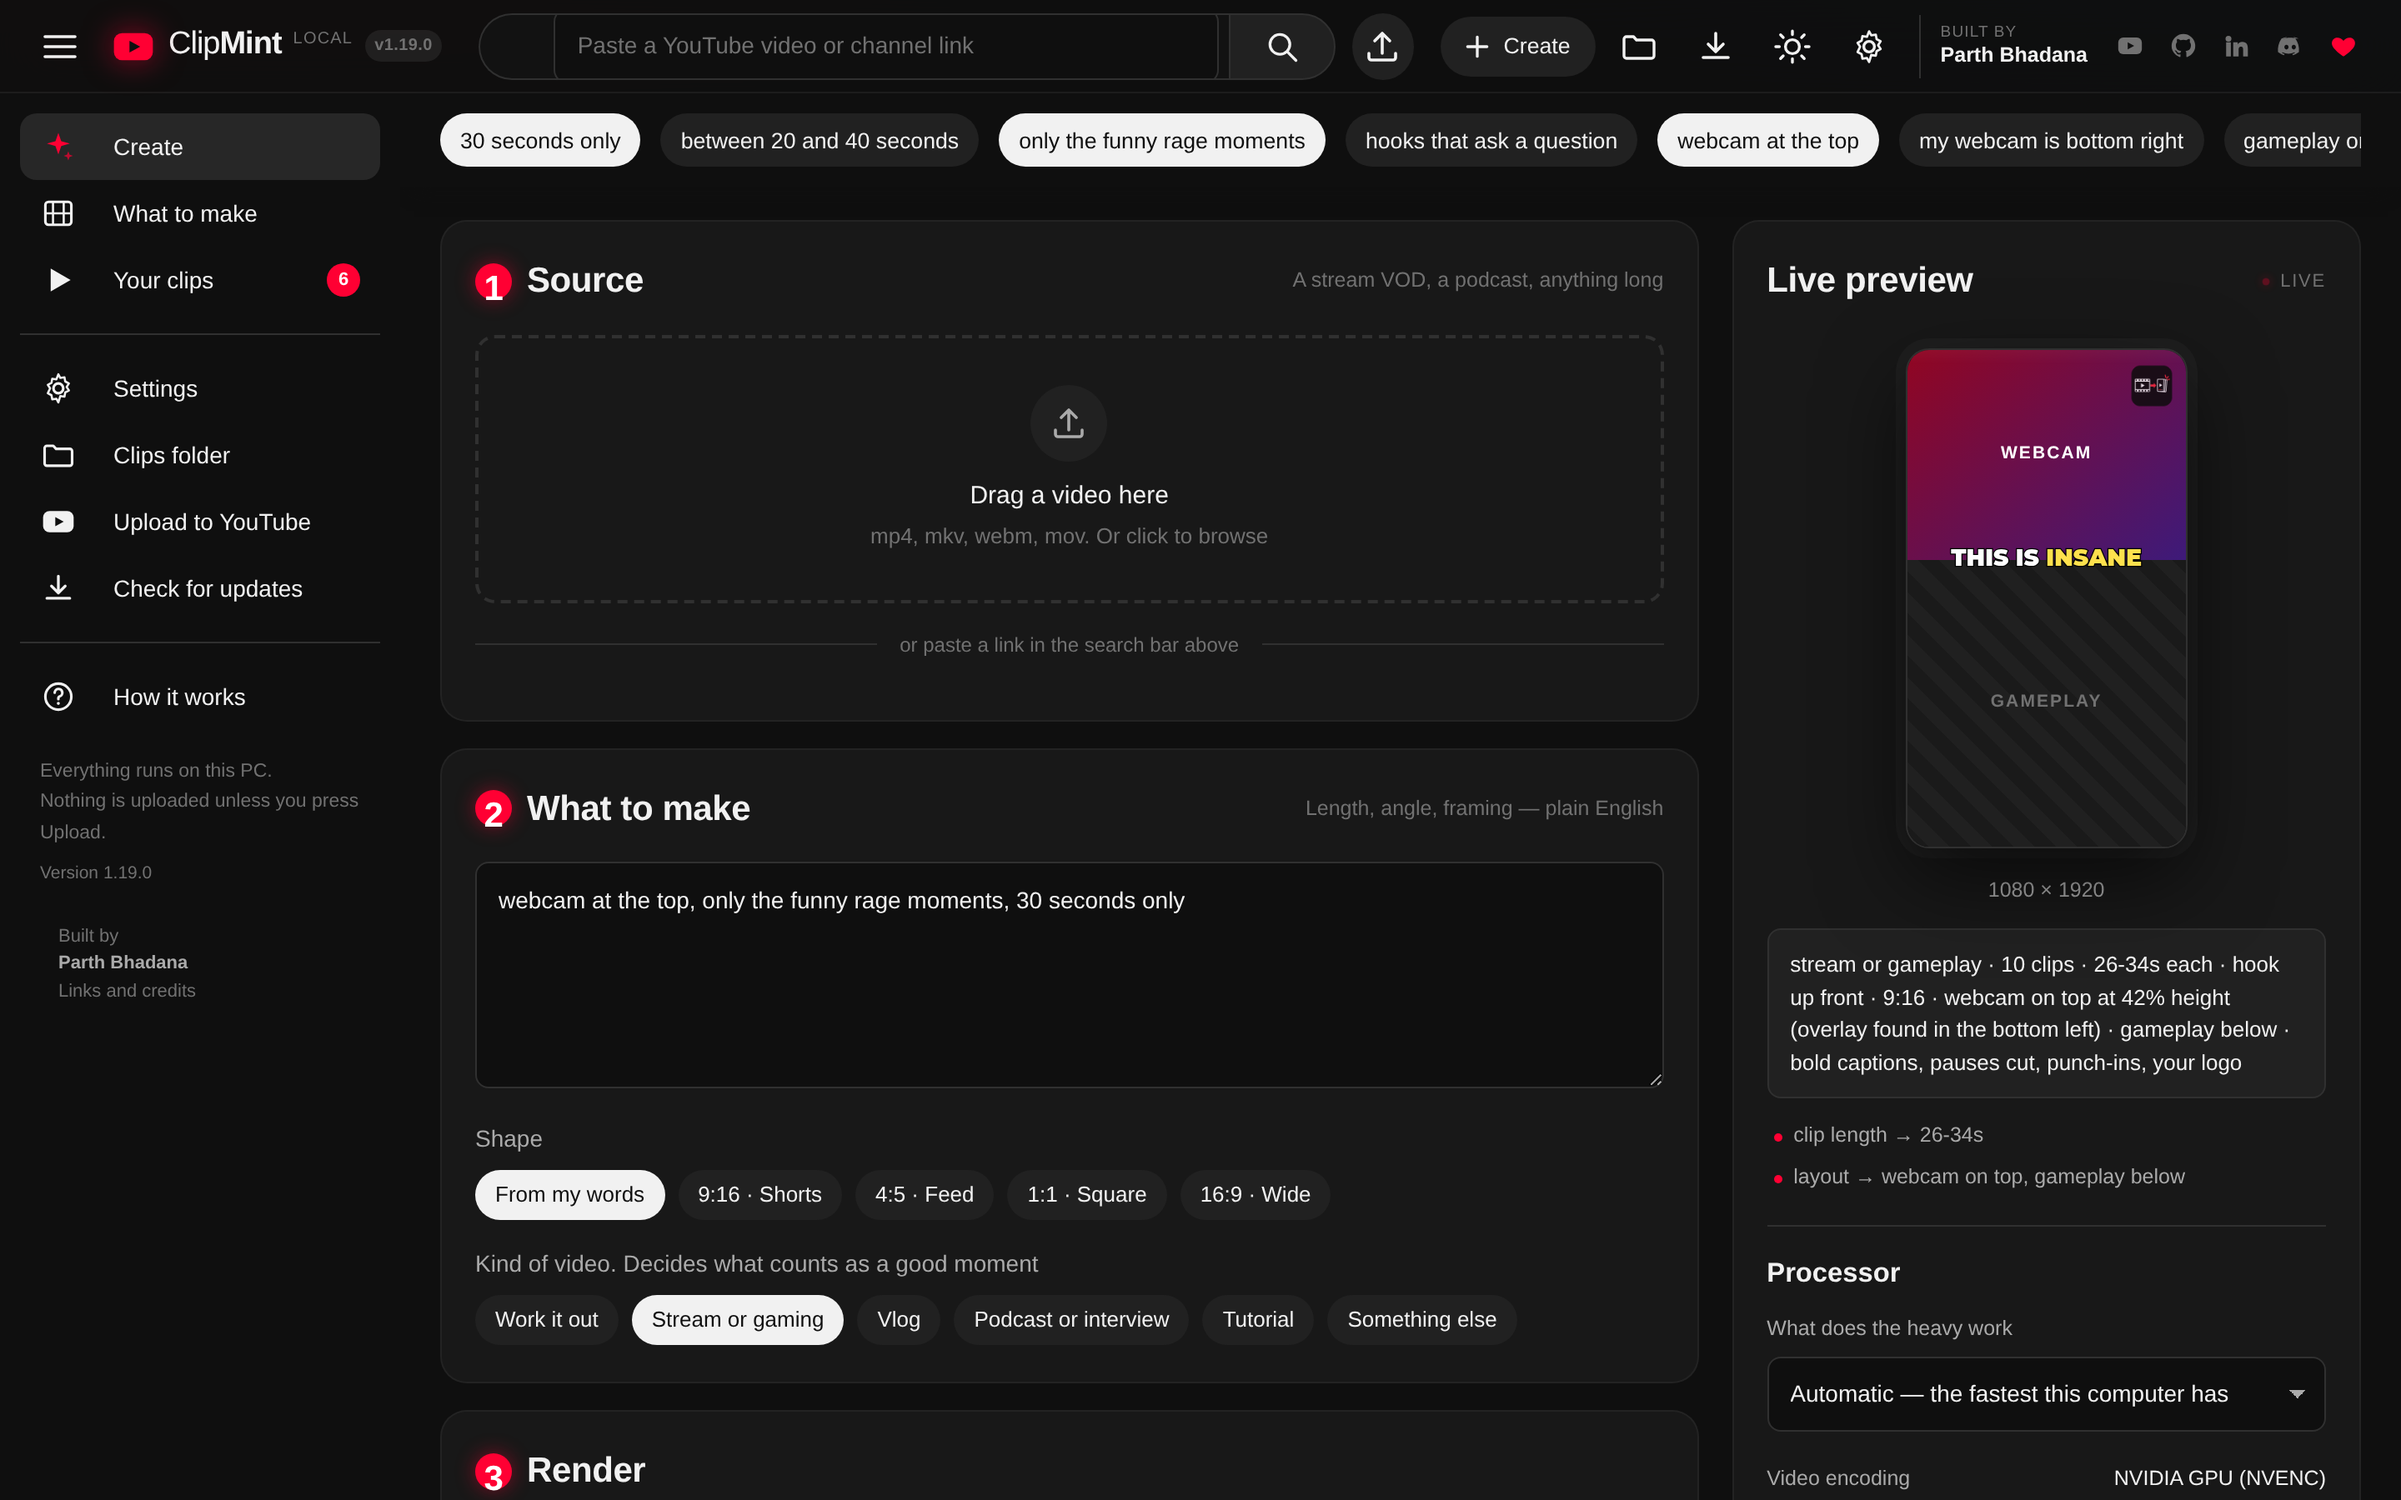
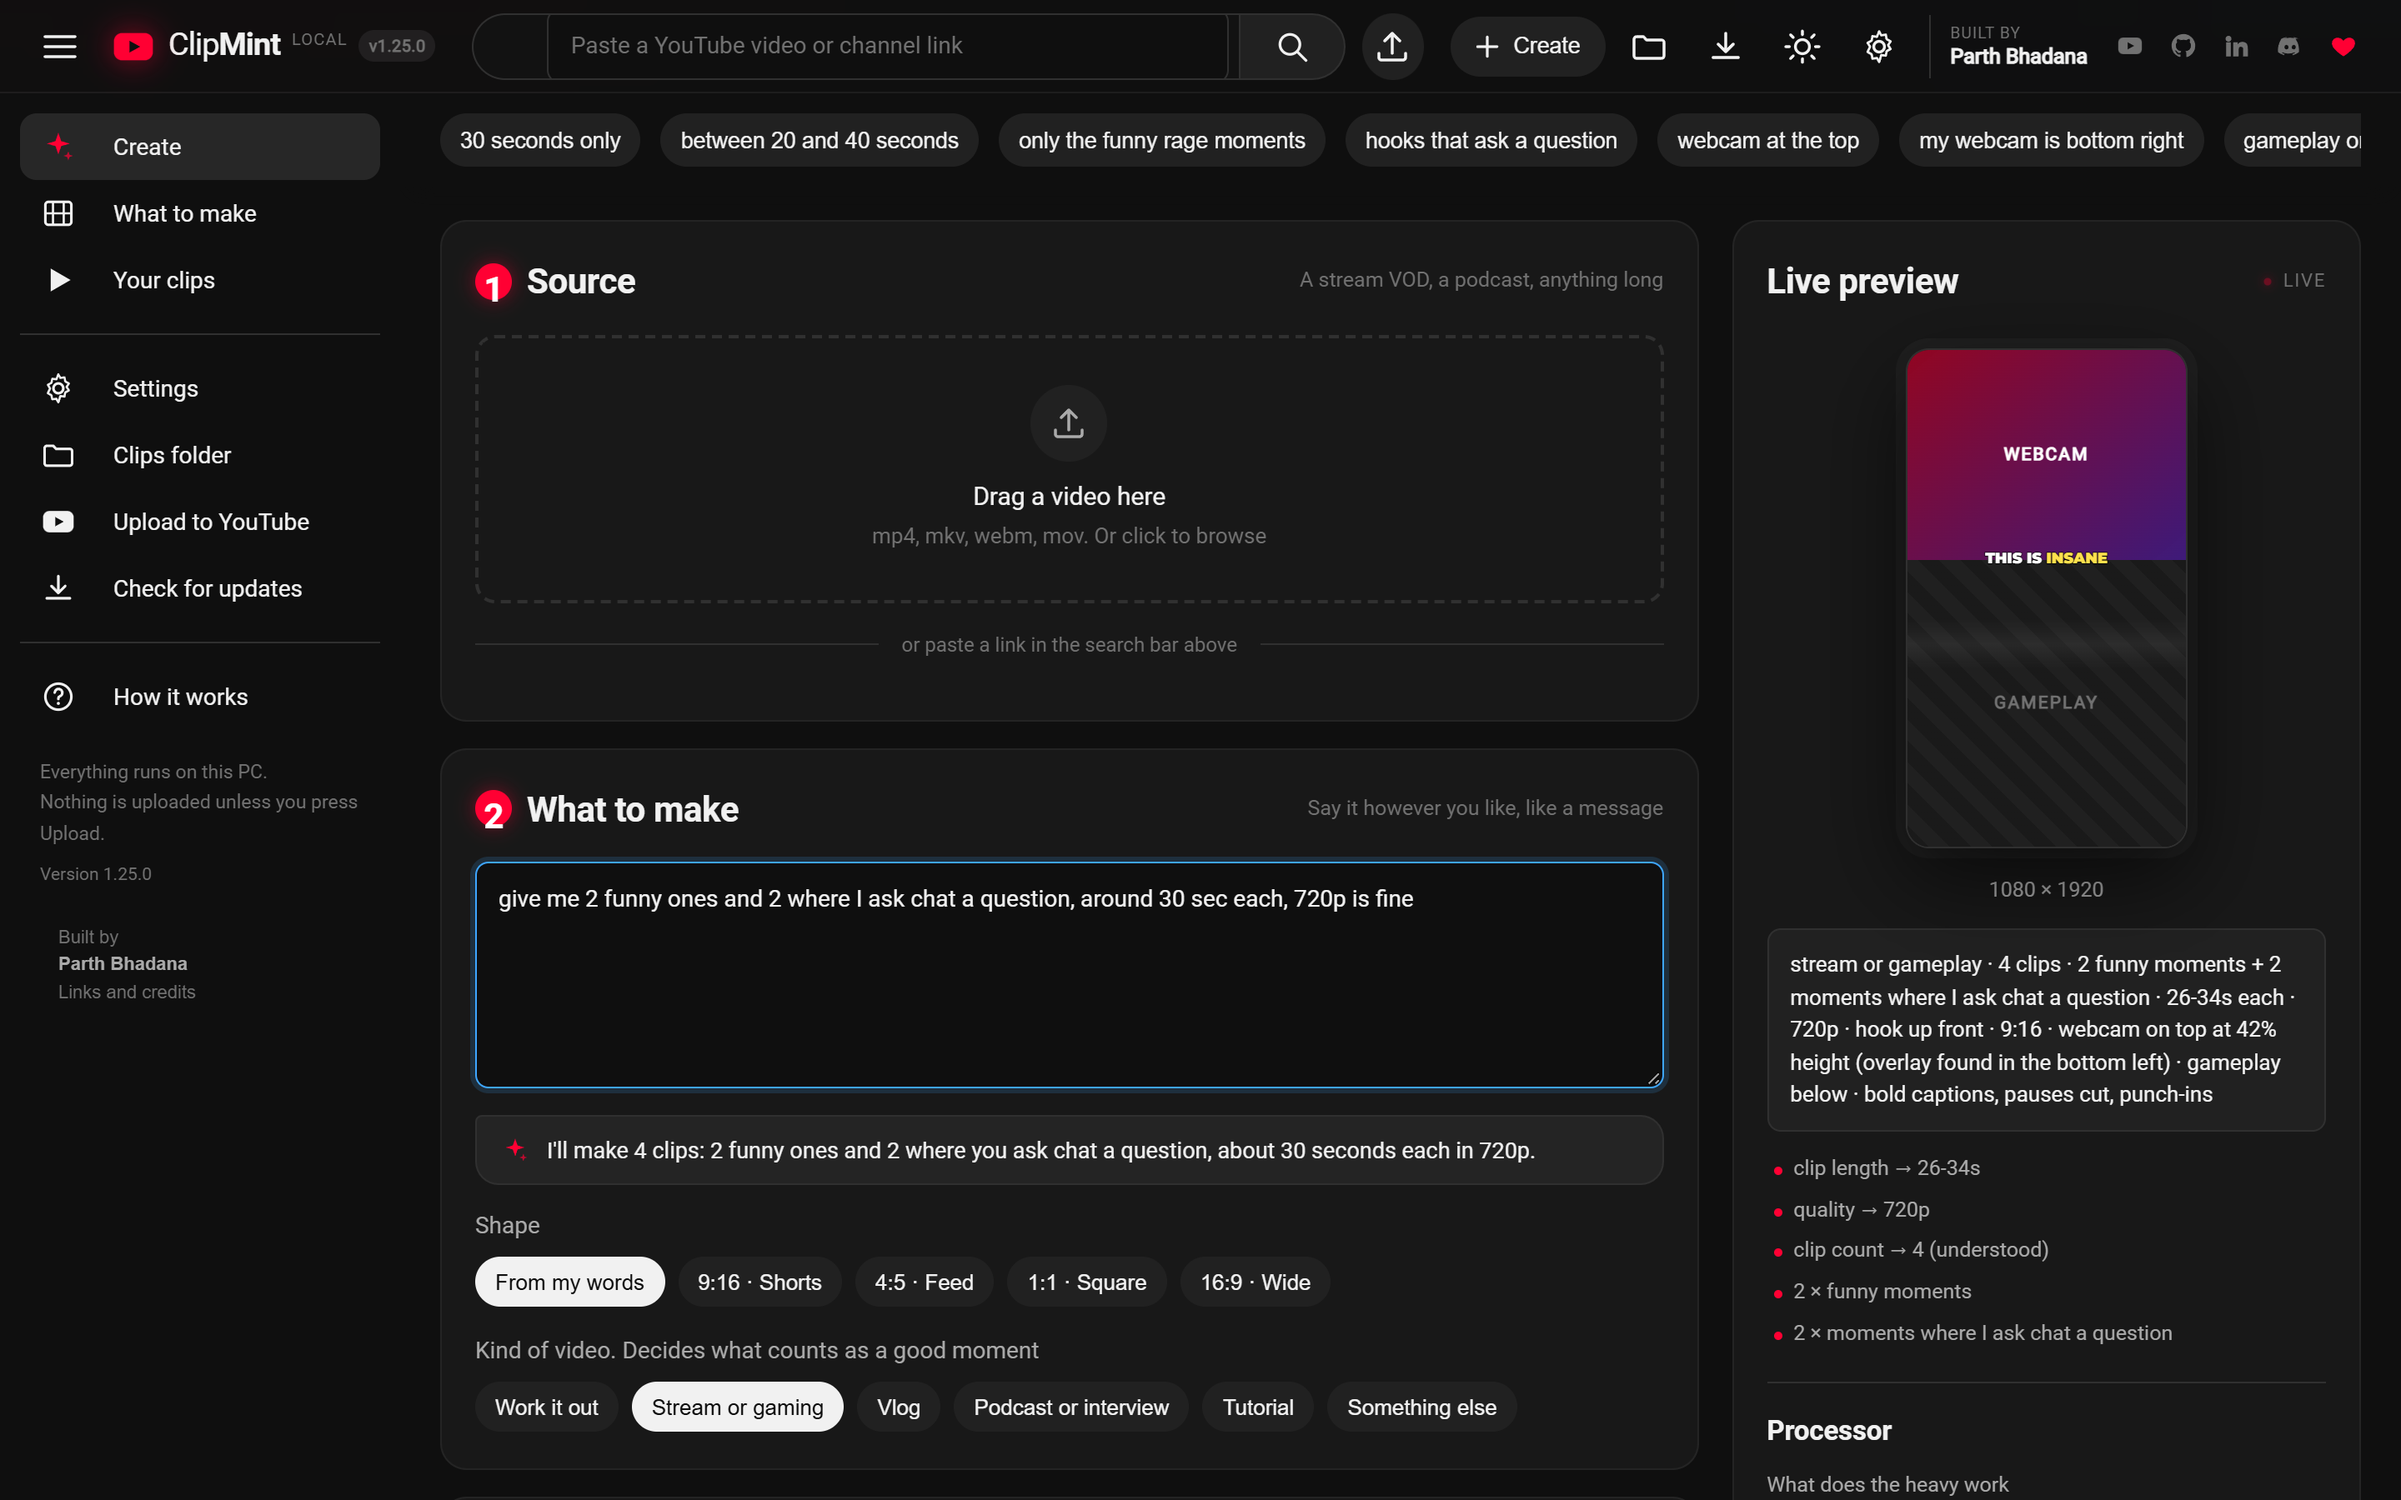
screenshots: the create screen with the prompt's reply

diff --git a/README.md b/README.md
@@ -66,7 +66,7 @@ the architecture, the hard problems, and the numbers.
 
 **[▶ Watch the 58-second tour](https://klez799.github.io/clipmint/#showcase)** · [or the mp4](assets/showcase/clipmint-showcase.mp4)
 
-<img src="assets/screenshots/01-create.png" alt="The create screen: a layout prompt, the Shape and Kind of video pickers with Stream or gaming chosen, and a live 9:16 preview on the right with a caption sample and the logo in its corner" width="880">
+<img src="assets/screenshots/01-create.png" alt="The create screen: a prompt typed like a message, give me 2 funny ones and 2 where I ask chat a question, around 30 sec each, 720p is fine, answered underneath with I'll make 4 clips: 2 funny ones and 2 where you ask chat a question, about 30 seconds each in 720p; Stream or gaming chosen, and the live 9:16 preview listing both groups" width="880">
 
 <img src="assets/screenshots/00-welcome.png" alt="The launch card: what the app is, who made it, links to the channel, repo, Discord and email, and a donate button" width="640">
 
